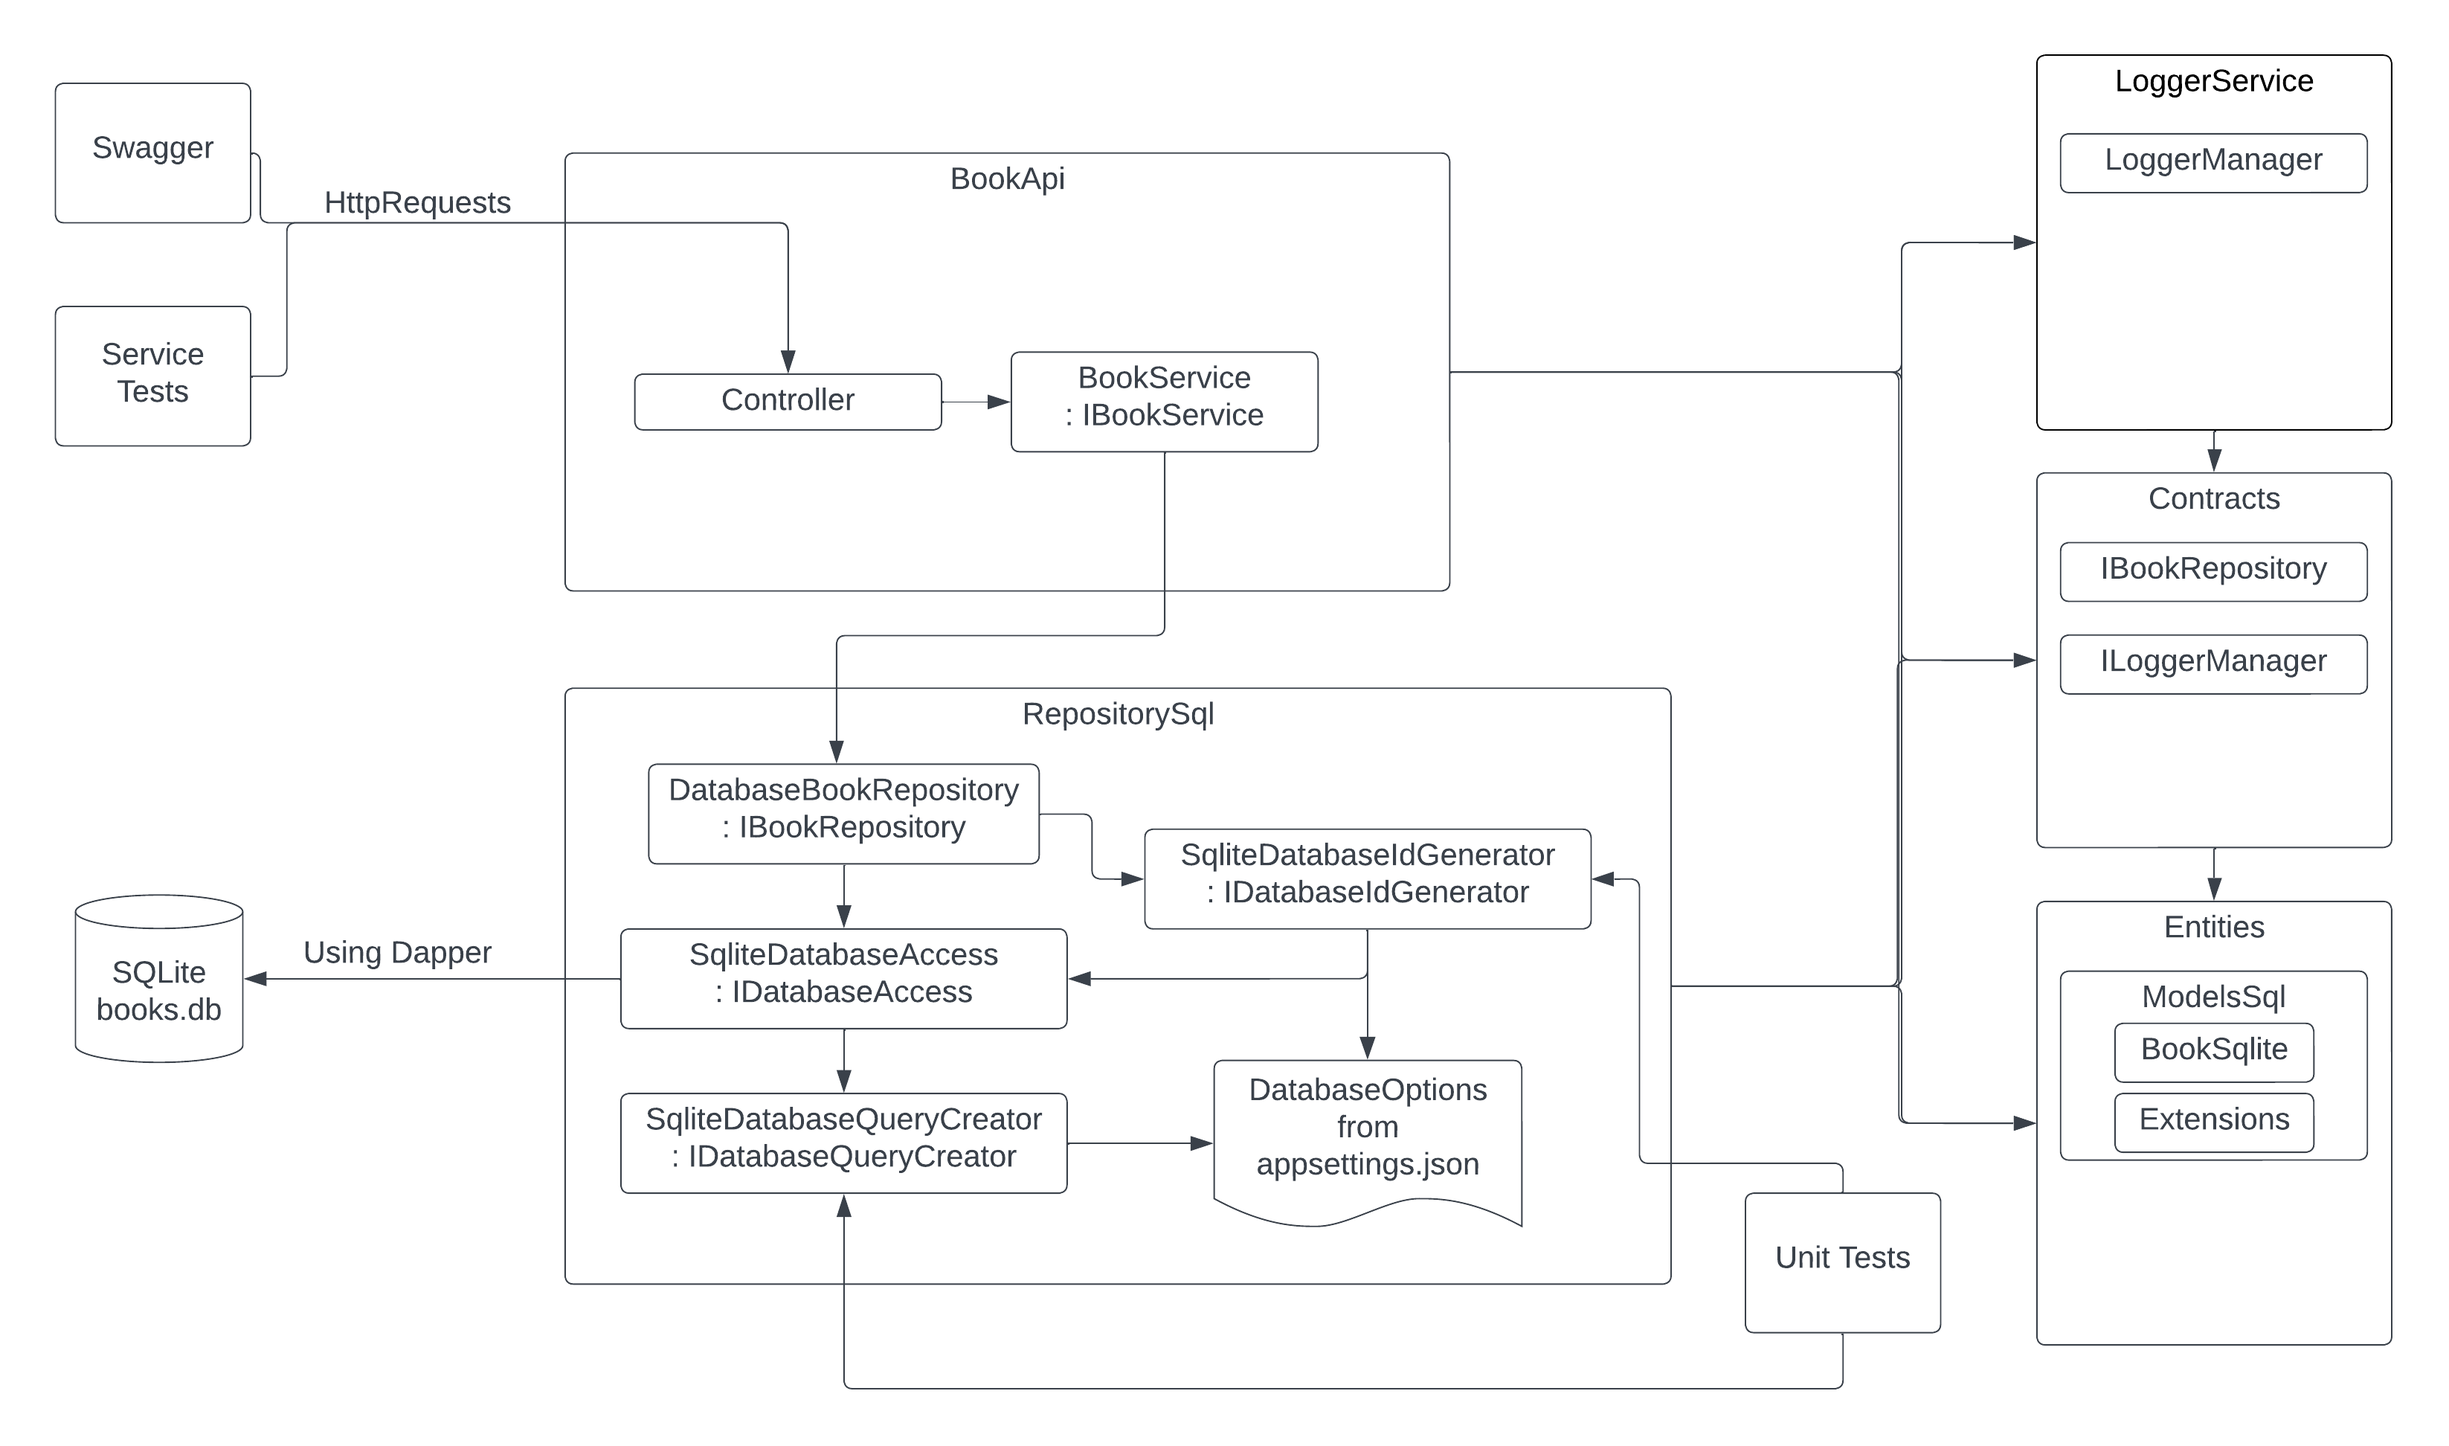
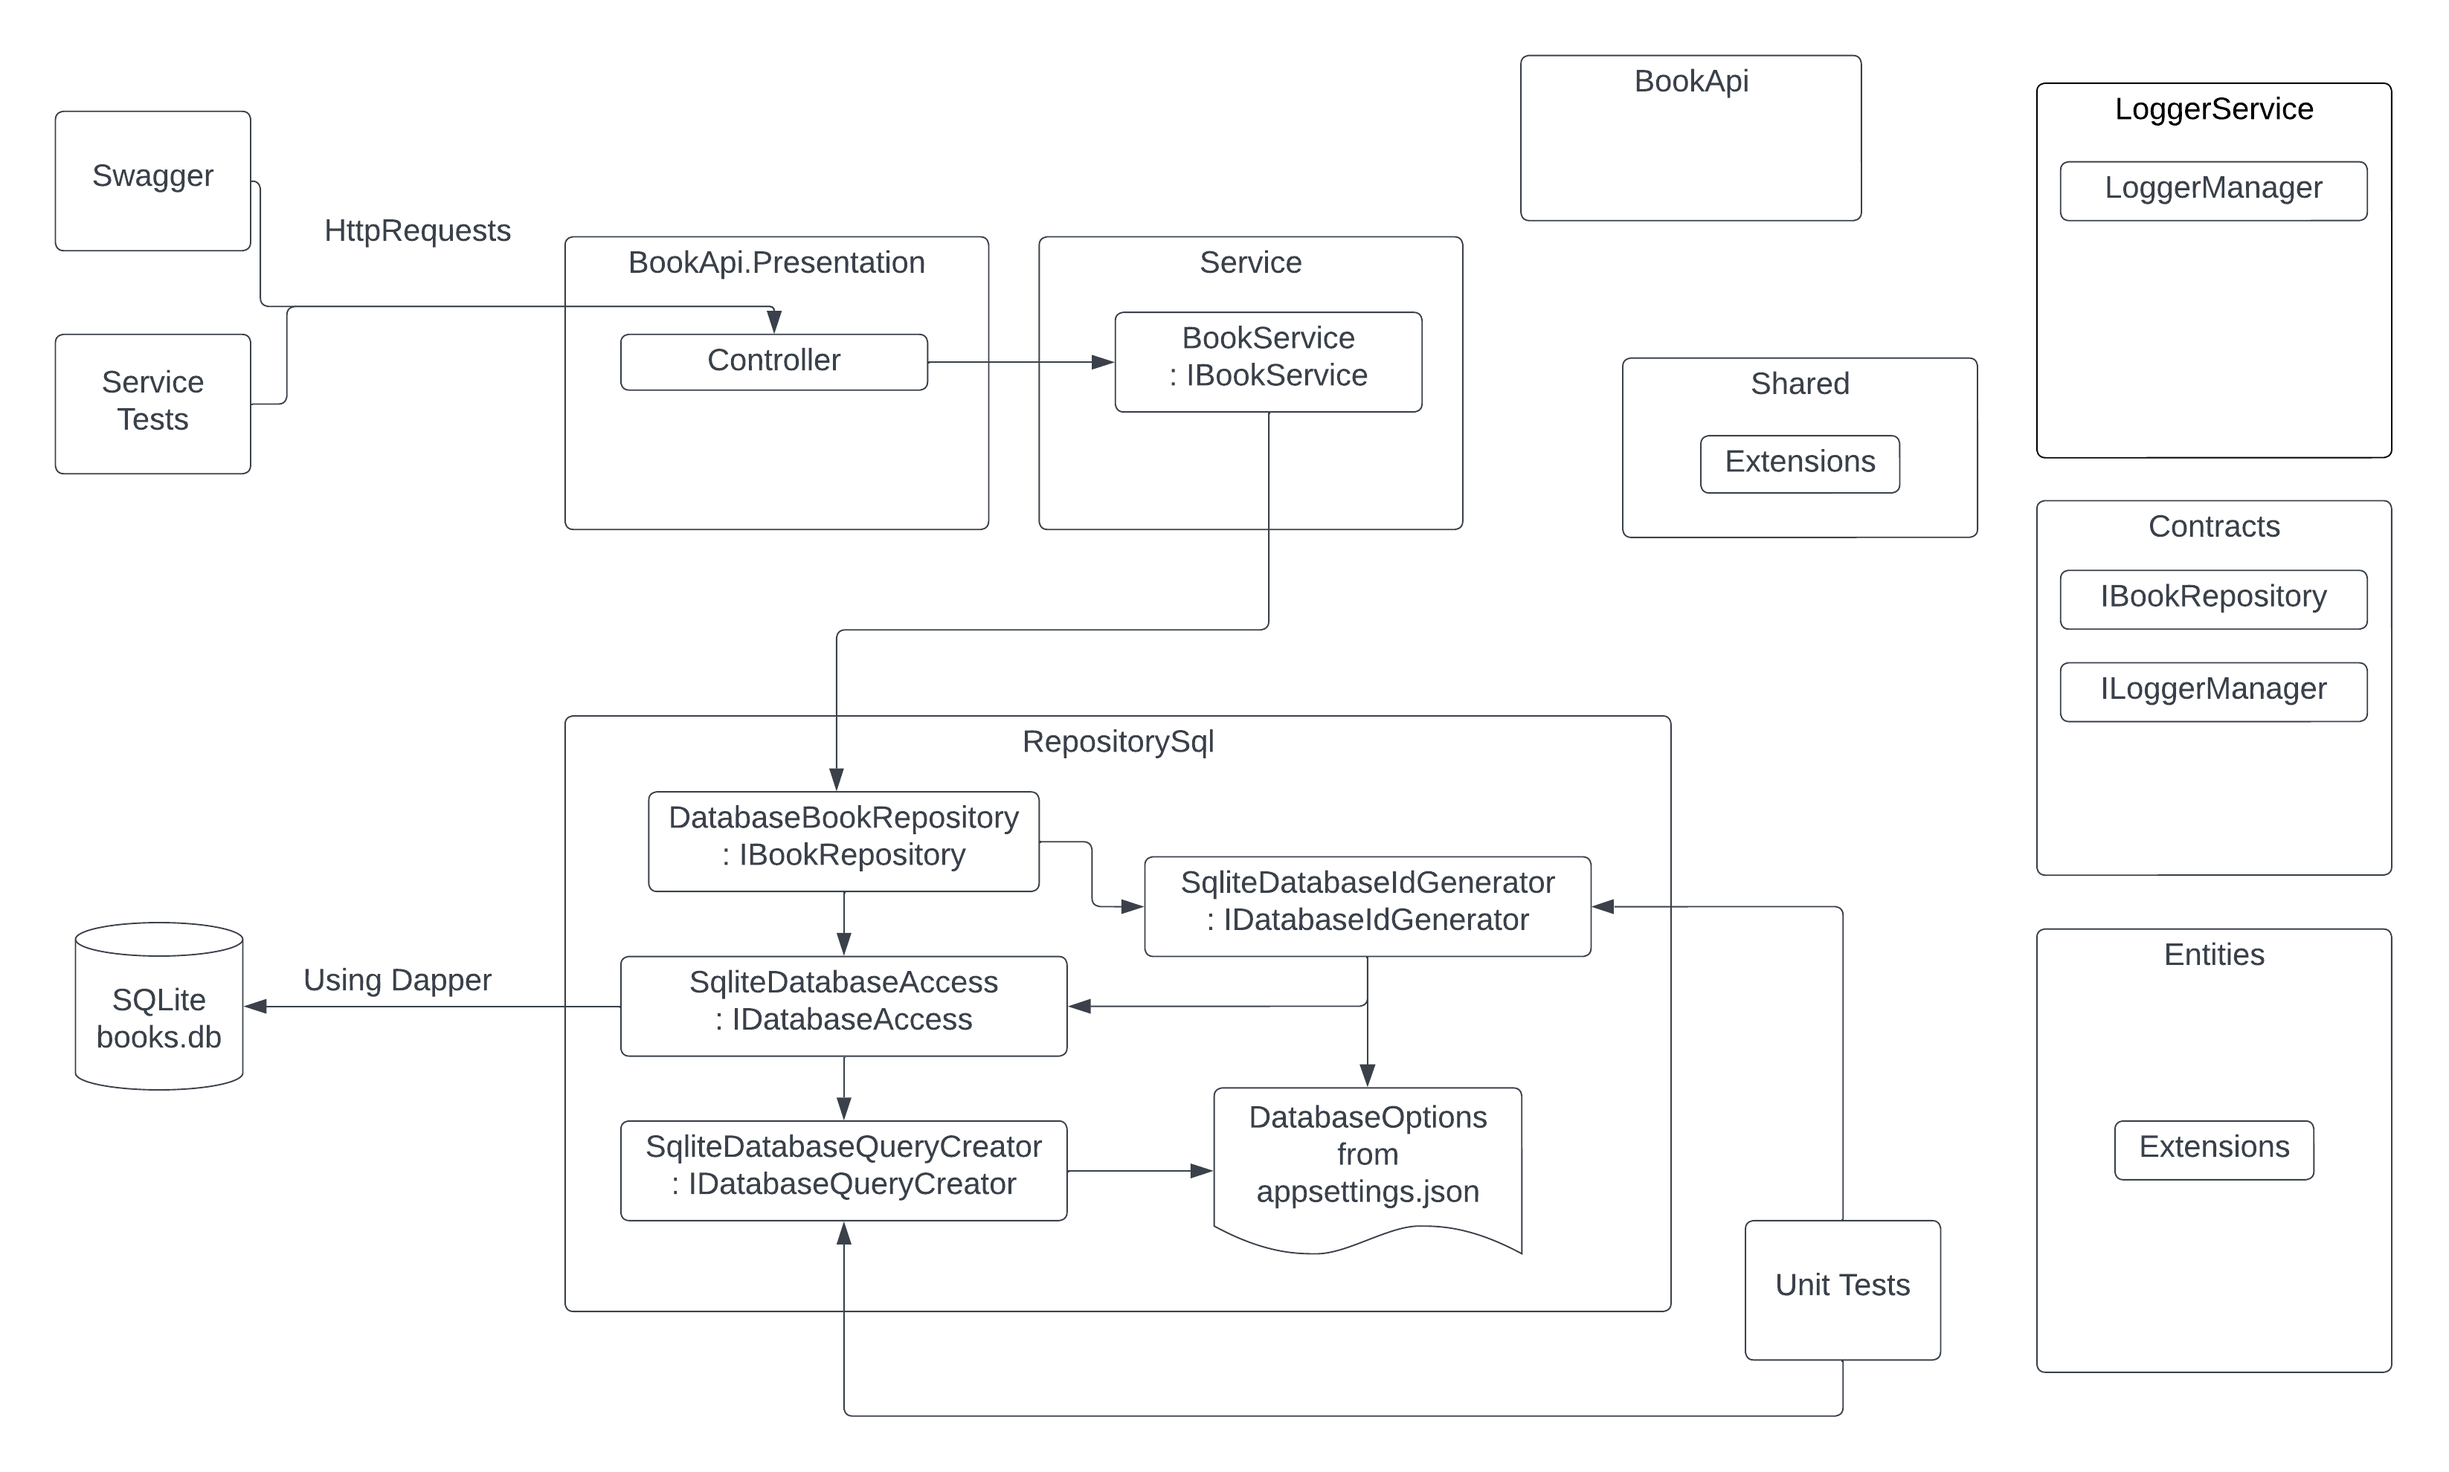
update diagram and readme with new projects info

diff --git a/README.md b/README.md
@@ -1,7 +1,8 @@
 # BookManager API
 
 Ett API skrivet i C# för böcker med en SQLite databas skapat med Test Driven Development (TDD).
-Uppbyggt i tre lager: presentation, service och databasen (domain).
+Uppbyggt i tre lager: presentation, service och repository.
+
 
 - Service test som täcker CRUD
 - Unit test
